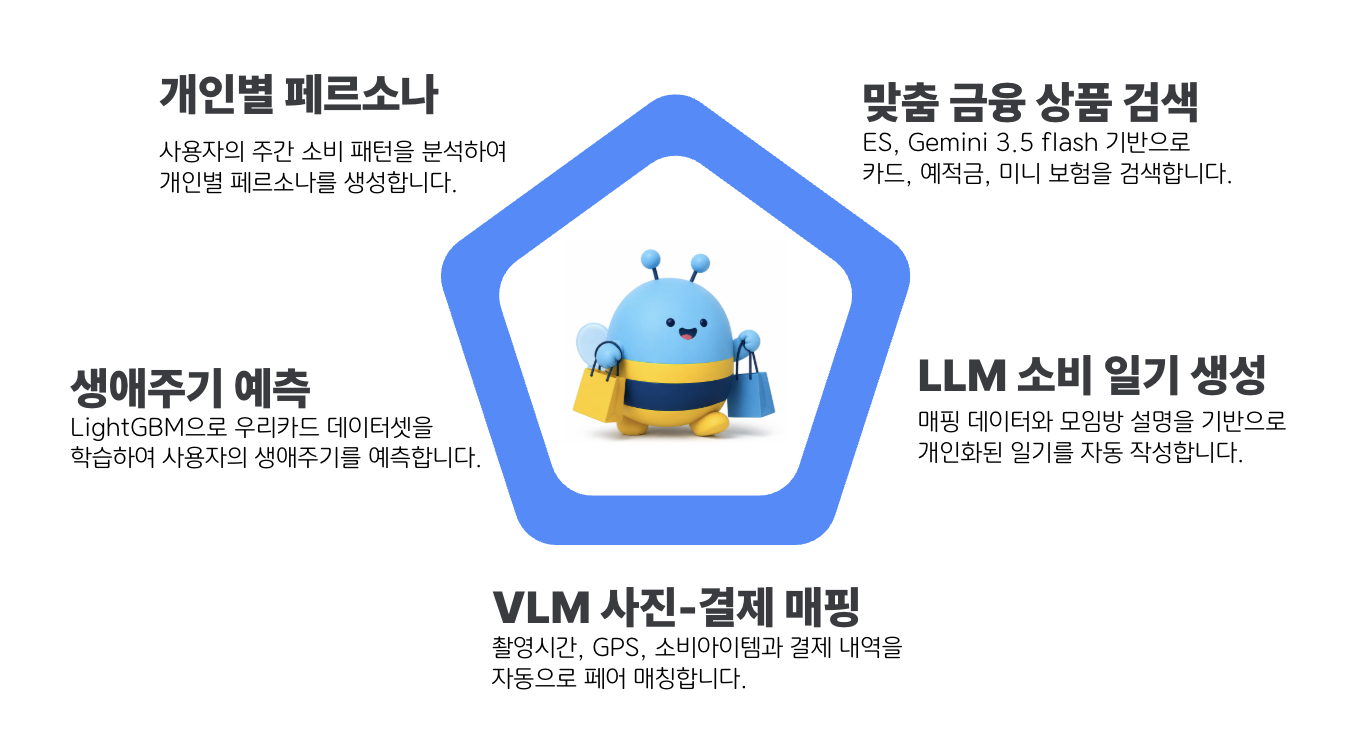
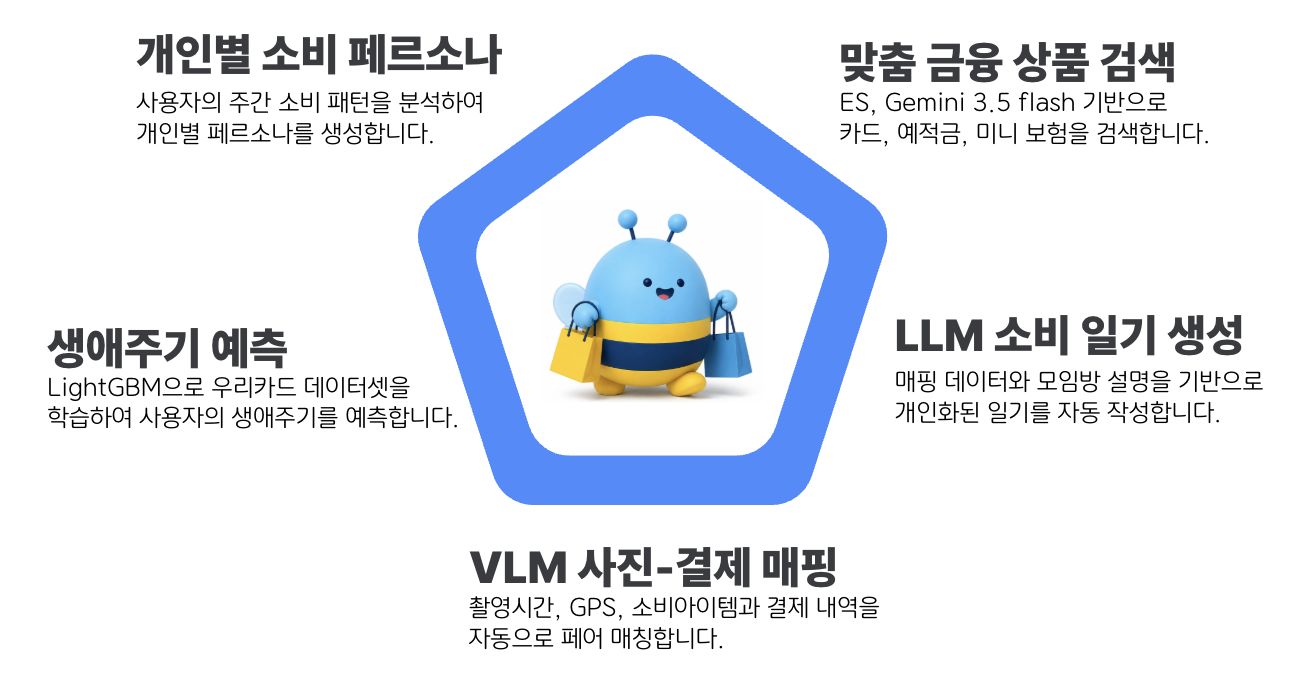
docs: submit.md 작성

diff --git a/submit.md b/submit.md
@@ -1,10 +1,10 @@
 # [우리FISA 6기] AI 엔지니어링 과정 5팀 
 
 ## 1\. 프로젝트 개요
-  * **주제** : 결제•이미지 데이터 기반 페르소나 도출 및 LLM 맞춤 금융 추천•소비 일기 제공
+  * **주제** : 결제•이미지 데이터 기반 페르소나 도출 및 LLM 맞춤 금융 상품 제안•소비 일기 제공
   * **프로젝트 기획 배경** :  
     - 기존 금융 앱은 결제 내역을 단순 통계로만 보여줘 사용자가 자신의 소비 패턴과 생애주기를 직관적으로 파악하기 어렵습니다.  
-    - 이를 해결하기 위해 결제·사진 데이터를 기반으로 개인화된 페르소나와 소비 일기를 생성하고, 이를 바탕으로 맞춤 금융 상품까지 추천해주는 서비스를 기획했습니다.
+    - 이를 해결하기 위해 결제·사진 데이터를 기반으로 개인화된 페르소나와 소비 일기를 생성하고, 이를 바탕으로 맞춤 금융 상품까지 제안하는 서비스를 기획했습니다.
   * **기술 스택** :
     - **Frontend** : React, React Router
     - **Backend** : FastAPI, Airflow, Spring
@@ -15,13 +15,20 @@
 ## 2\. 아키텍쳐
 
 ### 2-1. 시스템 아키텍쳐
-(다이어그램, 도식화 등을 활용하여 시스템의 구성을 확인할 수 있는 이미지를 첨부해 주세요.)
+![alt text](sys_architecture.png)
 
 ### 설명
-(첨부한 시스템 아키텍처 이미지를 간략하게 설명해 주세요.)
+AWS Cloud(ap-northeast-2) 위에 VPC를 구성하여 퍼블릭/프라이빗 서브넷으로 역할을 분리했습니다.
+
+- **CI/CD** : GitHub에 Push하면 GitHub Actions가 Docker 이미지 빌드 → 보안 스캔 → ECR 푸시까지 자동 수행하고, SSH를 통해 EC2에 배포합니다.
+- **퍼블릭 서브넷** : Bastion EC2(Nginx Reverse Proxy)가 HTTPS(443)로 외부 요청을 받아 React(80)·Spring Boot(8082)로 라우팅합니다. FastAPI-Airflow EC2는 FastAPI(8000)·Airflow(8082)·Dashboard(5174)를 Docker Compose로 실행합니다.
+- **프라이빗 서브넷** : Spring-React EC2에서 React(3000)·Spring Boot(8080)·Elasticsearch(9200)를 Docker Compose로 운영하며, MySQL RDS(3306)와 REST API로 통신합니다.
+- **스토리지** : Amazon S3는 VPC Endpoint(S3 Gateway)를 통해 내부에서 직접 접근하여 데이터 및 정책 파일을 저장합니다.
 
 ### 2-2. AI 에이전트 워크플로우 (AI 엔지니어링 과정만 해당)
-![alt text](AI_workflow.png)
+![alt text](ai_workflow_1.png)
+![alt text](ai_workflow_2.png)
+![alt text](ai_workflow_3.png)
 
 ### 설명
 AI 에이전트 워크플로우는 3개의 파이프라인으로 구성됩니다.
@@ -116,7 +123,7 @@ async def generate_diary(req: DiaryRequest) -> DiaryResponse:
   - 코드 링크(스크립트 링크) : `backend/fastapi/app/api/diary_generate.py`
 
 #### [기능5. 맞춤 금융 상품 검색]
-  - 기능 설명 : 자연어 검색어를 LLM으로 파싱해 조건을 추출하고, Elasticsearch 검색 결과와 병합·필터링하여 맞춤 금융 상품을 추천합니다.
+  - 기능 설명 : 자연어 검색어를 LLM으로 파싱해 조건을 추출하고, Elasticsearch 검색 결과와 병합·필터링하여 맞춤 금융 상품을 보여줍니다.
   - 핵심 코드(스크립트) :
 ```java
 @Cacheable(value = "searchCache", key = "#request.search_input.trim().toLowerCase()")
